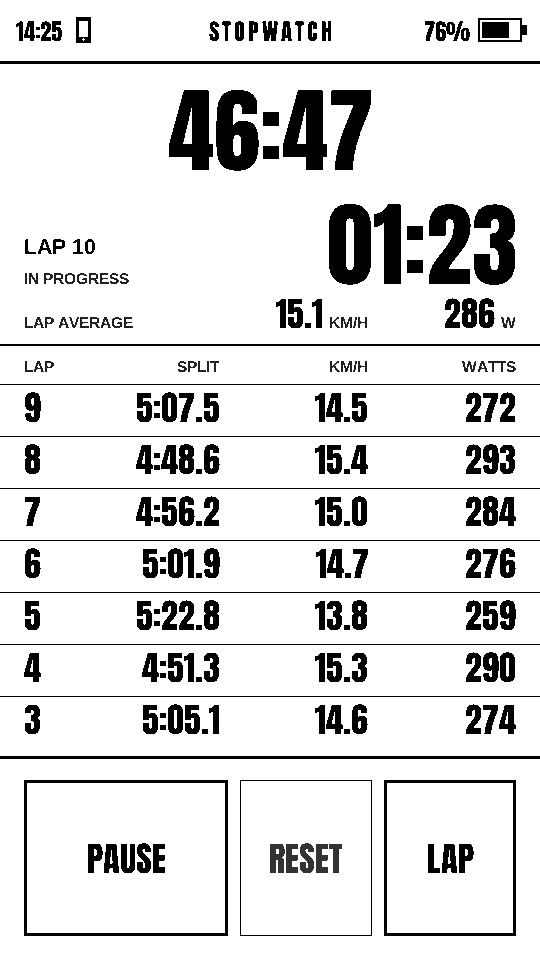
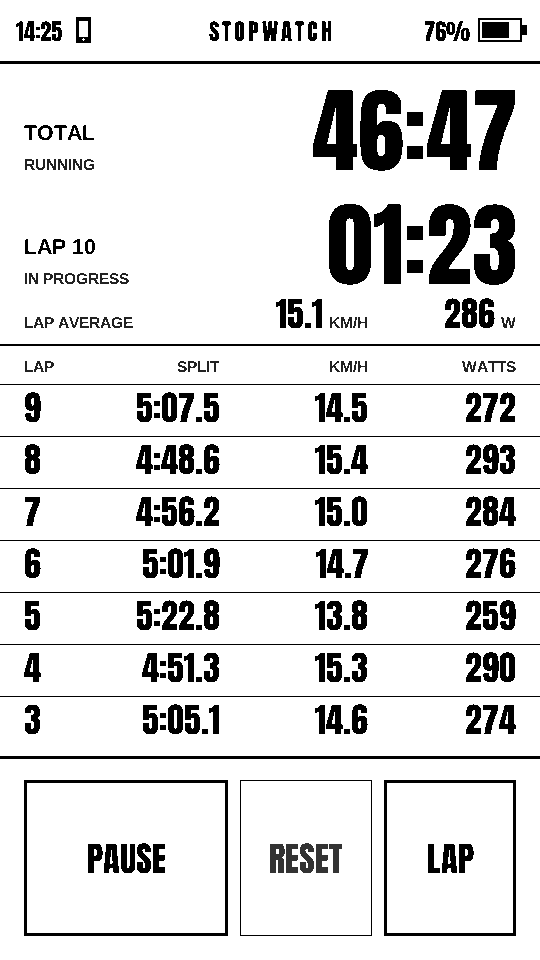
Stopwatch: total right-aligned beside a TOTAL label in the lap layout
With laps, the total now mirrors the lap row under it: "TOTAL" over
RUNNING/PAUSED on the left, digits flush right on the same edge as the lap
time. The total is sized for the column minus the label, so H:MM:SS still
fits; the no-laps layout is unchanged. Refresh is the framebuffer diff, so
the moved digits need no rect of their own. New preview: laps past the hour.

Claude-Session: https://claude.ai/code/session_01X57ctQpfi9LeUkx8ToBKUJ

Changed region(s): [[0.2963, 0.0938, 0.9778, 0.1875], [0.0296, 0.125, 0.1778, 0.1875]]

diff --git a/src/ui_render.cpp b/src/ui_render.cpp
@@ -2891,18 +2891,18 @@ void swFmtPower(char* out, size_t cap, int w) {
     else snprintf(out, cap, "%d", w);
 }
 
-// Largest ladder face that fits `hint` across the content column and stays
-// within `maxH`. Sized against the WIDEST string of the current form, not the
-// string itself, so the numerals never change size as they tick — only once,
-// on the hour, when the hours column appears.
-const EpdFont* swFace(uint32_t ms, int maxH) {
+// Largest ladder face that fits `hint` in `availW` and stays within `maxH`.
+// Sized against the WIDEST string of the current form, not the string
+// itself, so the numerals never change size as they tick — only once, on the
+// hour, when the hours column appears.
+const EpdFont* swFace(uint32_t ms, int maxH, int availW = ui::CONTENT_W) {
     const uint32_t sec = ms / 1000;
     const char* hint = sec >= 36000 ? "00:00:00" : sec >= 3600 ? "0:00:00"
                                                                : "00:00";
     const int n = sizeof(kStopwatchLadder) / sizeof(kStopwatchLadder[0]);
     for (int i = 0; i < n; ++i)
         if (epdc_digit_height(kStopwatchLadder[i]) <= maxH &&
-            ui::textWidth(kStopwatchLadder[i], hint) <= ui::CONTENT_W)
+            ui::textWidth(kStopwatchLadder[i], hint) <= availW)
             return kStopwatchLadder[i];
     return kStopwatchLadder[n - 1];
 }
@@ -2957,10 +2957,19 @@ void ui_render_stopwatch(const RideState& s, const Stopwatch& sw, uint32_t now,
                      fb, EPD_DRAW_ALIGN_LEFT, ui::DARK);
         }
     } else {
-        // --- Total, smaller, at the top. ------------------------------------
-        const EpdFont* f = swFace(elapsed, 95);
+        // --- Total, smaller, at the top: the same shape as the lap row
+        // below it (label pair on the left, digits flush right on the same
+        // edge), so the two read as a matched pair. The digits get the
+        // column minus the label's 140 px, which H:MM:SS still fits.
+        const int right = ui::CONTENT_X + ui::CONTENT_W;
+        const EpdFont* f = swFace(elapsed, 95, ui::CONTENT_W - 140);
         const int totalBase = ui::STATUS_H + 24 + epdc_digit_height(f);
-        ui::text(f, W / 2, totalBase, t, fb, EPD_DRAW_ALIGN_CENTER);
+        ui::text(&Arial_B, ui::CONTENT_X, totalBase - 30, "TOTAL", fb,
+                 EPD_DRAW_ALIGN_LEFT);
+        ui::text(&Arial_L, ui::CONTENT_X, totalBase,
+                 sw.running ? "RUNNING" : "PAUSED", fb, EPD_DRAW_ALIGN_LEFT,
+                 ui::DARK);
+        ui::text(f, right, totalBase, t, fb, EPD_DRAW_ALIGN_RIGHT);
 
         // --- The lap in progress: number, state, time, live averages. -------
         char buf[24];

diff --git a/tools/preview/preview_main.cpp b/tools/preview/preview_main.cpp
@@ -1050,6 +1050,16 @@ int main(int argc, char** argv) {
         clearWhite(fb.data());
         ui_render_stopwatch(mi, two, u, fb.data());
         emit("stopwatch_laps_two.png");
+
+        // Past the hour with laps: H:MM:SS has to fit beside the TOTAL label.
+        Stopwatch longer;
+        longer.toggle(t0);
+        uint32_t v = ride(longer, t0, 3700000, 27.3f, 201);
+        longer.lap(v);
+        v = ride(longer, v, 1834000, 25.8f, 188);
+        clearWhite(fb.data());
+        ui_render_stopwatch(s, longer, v, fb.data());
+        emit("stopwatch_laps_hour.png");
     }
 
     // WORKOUT pages, per the Claude Design "Workout View" frames: executing
